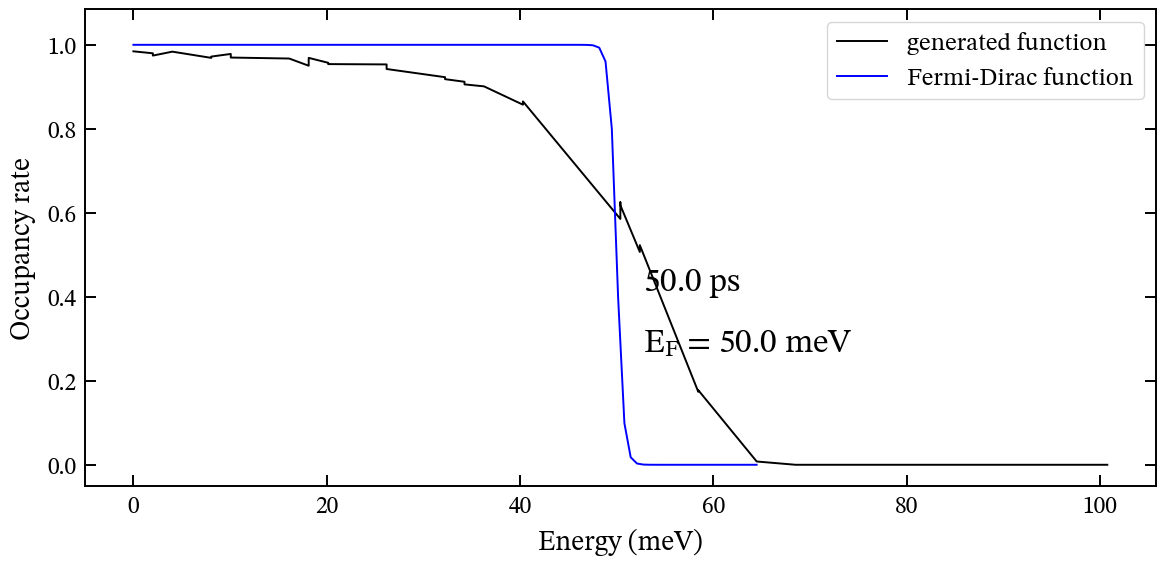
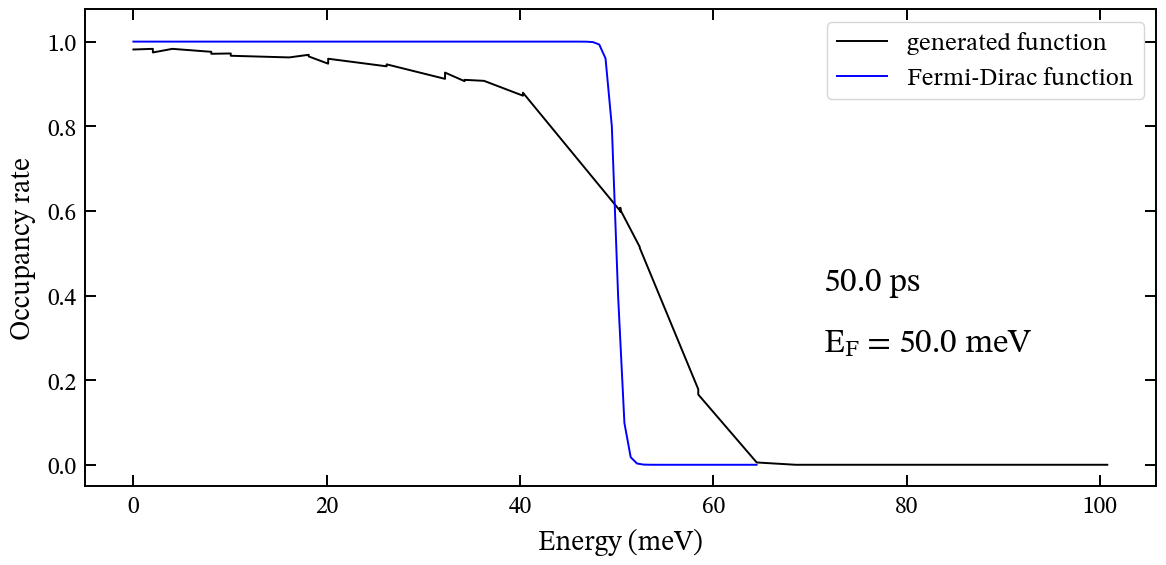
tight layout

diff --git a/23_deg_init_gif.py b/23_deg_init_gif.py
@@ -27,7 +27,7 @@ def EMC(index):
     F = np.array([0,0])
     F_x = F[0]  # electric field along x (V/m)
     num_e = int(1e5)  # number of electrons
-    partition = int(31) # this must be odd number
+    partition = int(51) # this must be odd number
     sim_time_index = 50
 
     E_pho = 60e-3  # phonon energy (eV)
@@ -136,7 +136,7 @@ def EMC(index):
           img = plt.plot(f_E_arr[:,0] / E0, f_E_arr[:,1], c='k', label='generated function')
         else:
           img = plt.plot(f_E_arr[:,0] / E0, f_E_arr[:,1], c='k')
-        text1 = fig.text(0.55, 0.50, f'${round(cur_time * 1e12, 0)}$ ps',
+        text1 = fig.text(0.7, 0.50, f'${round(cur_time * 1e12, 0)}$ ps',
                 ha='left', va='center', fontsize = 24)
         ims.append(img + [text1])
 
@@ -214,10 +214,10 @@ def EMC(index):
     plt.plot(E_arr_forF / E0, Fermi_arr, c='b', label='Fermi-Dirac function')
     plt.legend()
     if os_windows:
-         fig.text(0.55, 0.40, r'$\mathrm{E_{\mathrm{F}}}$ = ' + f'${E_F * 1e3}$ meV',
+         fig.text(0.7, 0.40, r'$\mathrm{E_{\mathrm{F}}}$ = ' + f'${E_F * 1e3}$ meV',
                 ha='left', va='center', fontsize = 24)
     else:
-        fig.text(0.55, 0.40, r'$E_{/rm F}$ = ' + f'${E_F * 1e3}$ meV',
+        fig.text(0.7, 0.40, r'$E_{/rm F}$ = ' + f'${E_F * 1e3}$ meV',
                 ha='left', va='center')
     ani = animation.ArtistAnimation(fig, ims, interval = 50)
     ani_name = "EF_" + str(int(E_F * 1e3)) + "meV" + ".gif"

diff --git a/test3.py b/test3.py
@@ -27,7 +27,7 @@ def EMC(index):
     F = np.array([0,0])
     F_x = F[0]  # electric field along x (V/m)
     num_e = int(1e5)  # number of electrons
-    partition = int(41) # this must be odd number
+    partition = int(61) # this must be odd number
     sim_time_index = 50
 
     E_pho = 60e-3  # phonon energy (eV)
